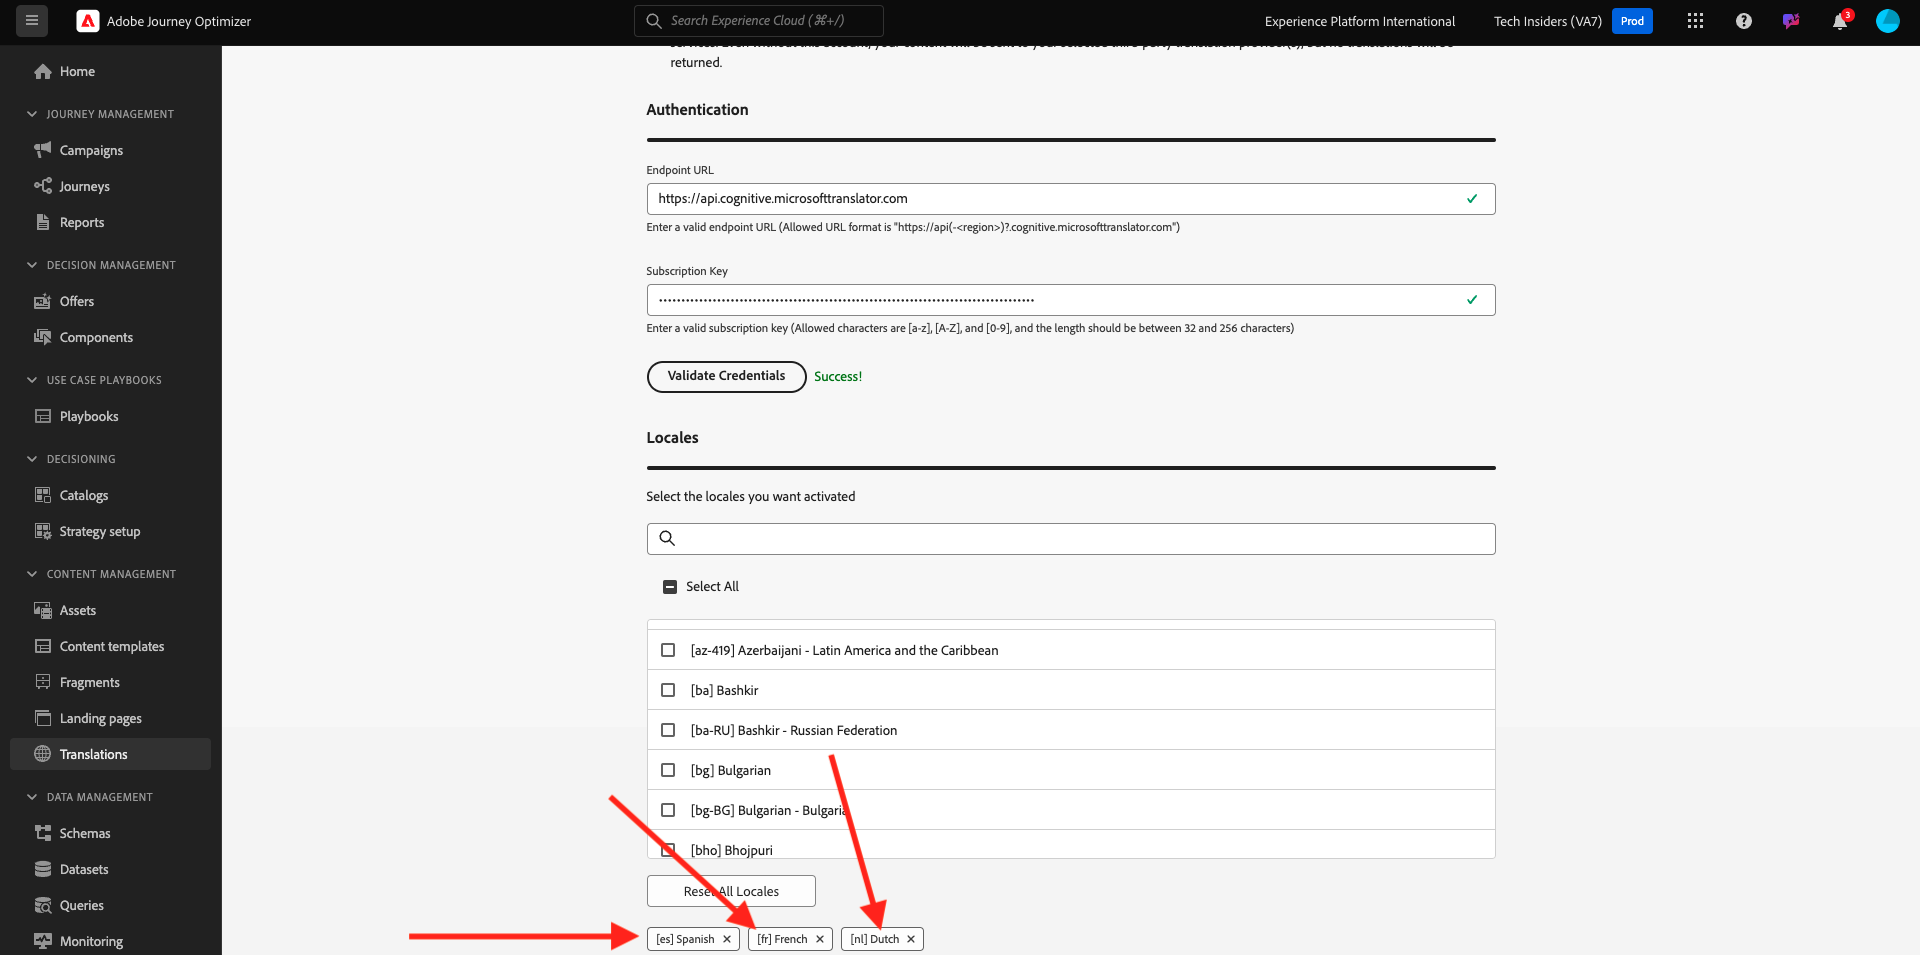
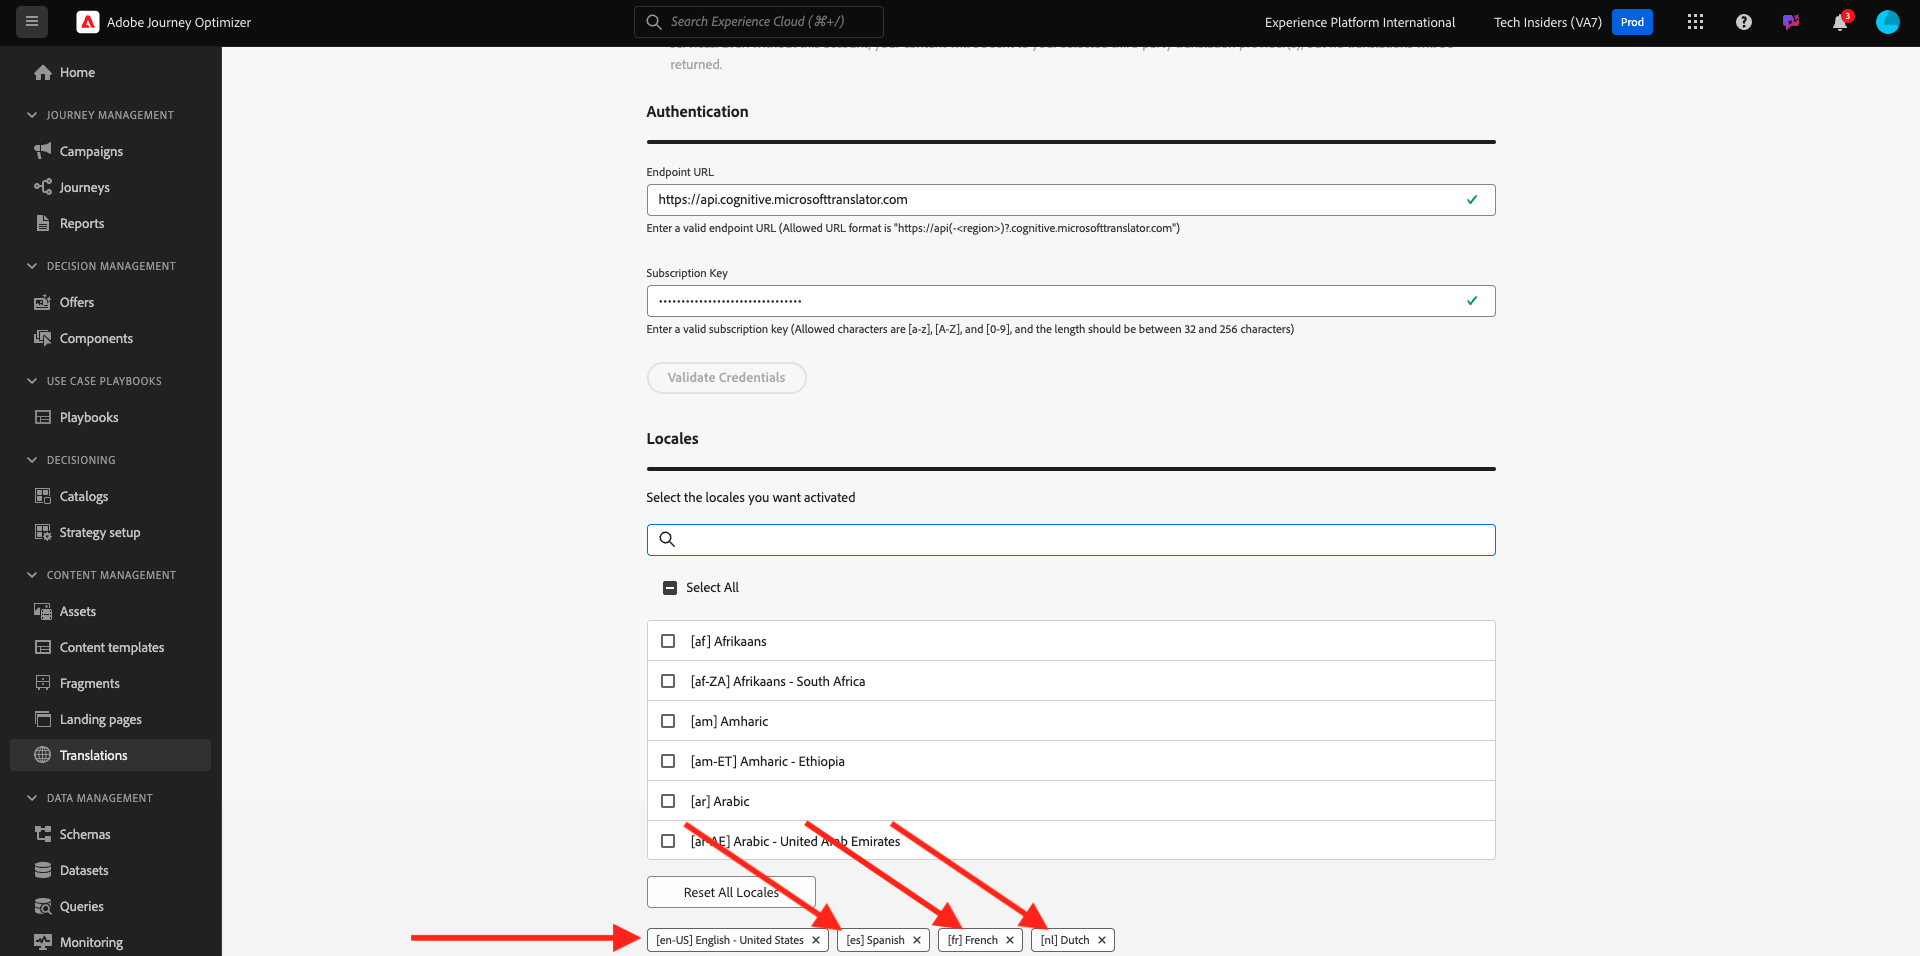
translations

diff --git a/help/tutorial-one-adobe/modules/uce/module3.2/ex2.md b/help/tutorial-one-adobe/modules/uce/module3.2/ex2.md
@@ -8,9 +8,38 @@ doc-type: tutorial
 
 ## 3.2.1.1 Configure Microsoft Azure Translator
 
-Go to [https://portal.azure.com/#home](https://portal.azure.com/#home).
+Go to [https://experience.adobe.com/](https://experience.adobe.com/). Click **Journey Optimizer**.
 
-![Translations](./images/transl1.png)
+![Translations](./images/ajolp1.png)
+
+In the left menu, go to **Translations** and then go to **Locale Dictionary**. If you see this message, click **Create Project**.
+
+![Translations](./images/ajoprovider1.png)
+
+Enter the name `--aepUserLdap-- - Translations`, set the **Source Locale** to `[en-US] English - United States` and check the checkbox to enable **Automatically publish approved translations**. Next, click **+ Add a locale**.
+
+![Translations](./images/ajoprovider1a.png)
+
+Search for `fr`, enable the checkbox for `[fr] French` and then enable the checkbox for **Microsoft Translator**. Click **+ Add a locale**.
+
+![Translations](./images/ajoprovider2.png)
+
+Search for `es`, enable the checkbox for `[es] Spanish` and then enable the checkbox for **Microsoft Translator**. Click **+ Add a locale**.
+
+![Translations](./images/ajoprovider3.png)
+
+Search for `nl`, enable the checkbox for `[nl] Spanish` and then enable the checkbox for **Microsoft Translator**. Click **+ Add a locale**.
+
+![Translations](./images/ajoprovider6.png)
+
+Click **Save**.
+
+![Translations](./images/ajoprovider8.png)
+
+Your **Translations** project is now ready to be used.
+
+![Translations](./images/ajoprovider9.png)
+
 
 
 [Go Back to Module 3.2](./ajotranslationsvcs.md)

diff --git a/help/tutorial-one-adobe/modules/uce/module3.2/ex1.md b/help/tutorial-one-adobe/modules/uce/module3.2/ex1.md
@@ -69,7 +69,7 @@ Your credentials should then be successfully validated. If they are, scroll down
 
 ![Translations](./images/transl10.png)
 
-Make sure to select `[es] Spanish`, `[fr] French`, `[nl] Dutch`.
+Make sure to select `[en-US] English`, `[es] Spanish`, `[fr] French`, `[nl] Dutch`.
 
 ![Translations](./images/transl11.png)
 
@@ -77,7 +77,7 @@ Scroll up and click **Save**.
 
 ![Translations](./images/transl12.png)
 
-Your Translations Provider is now ready to be used.
+Your **Translations Provider** is now ready to be used.
 
 ![Translations](./images/transl13.png)
 
